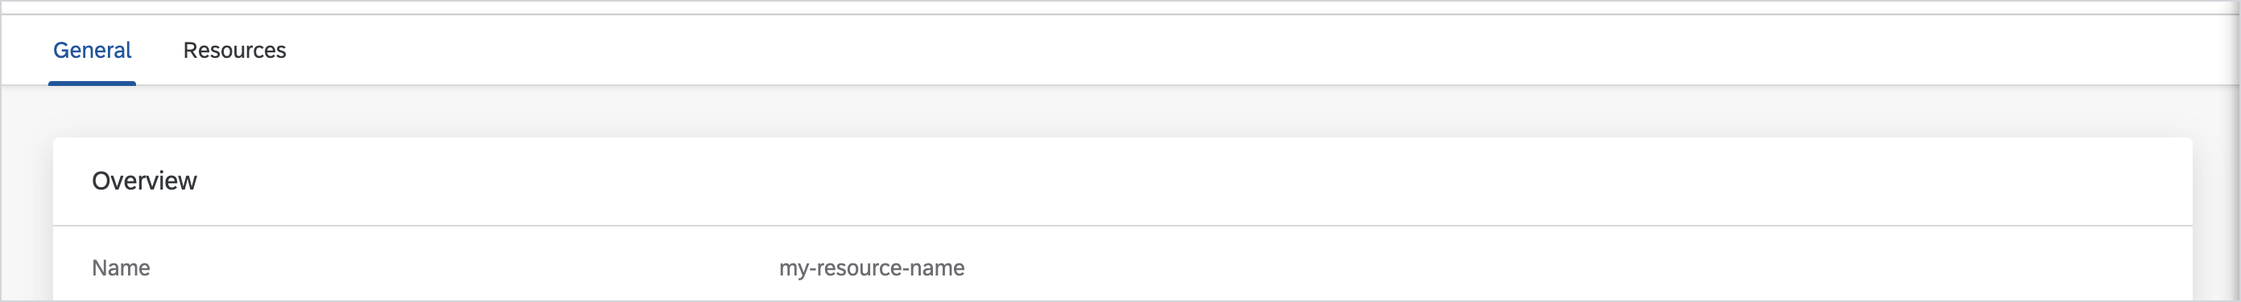
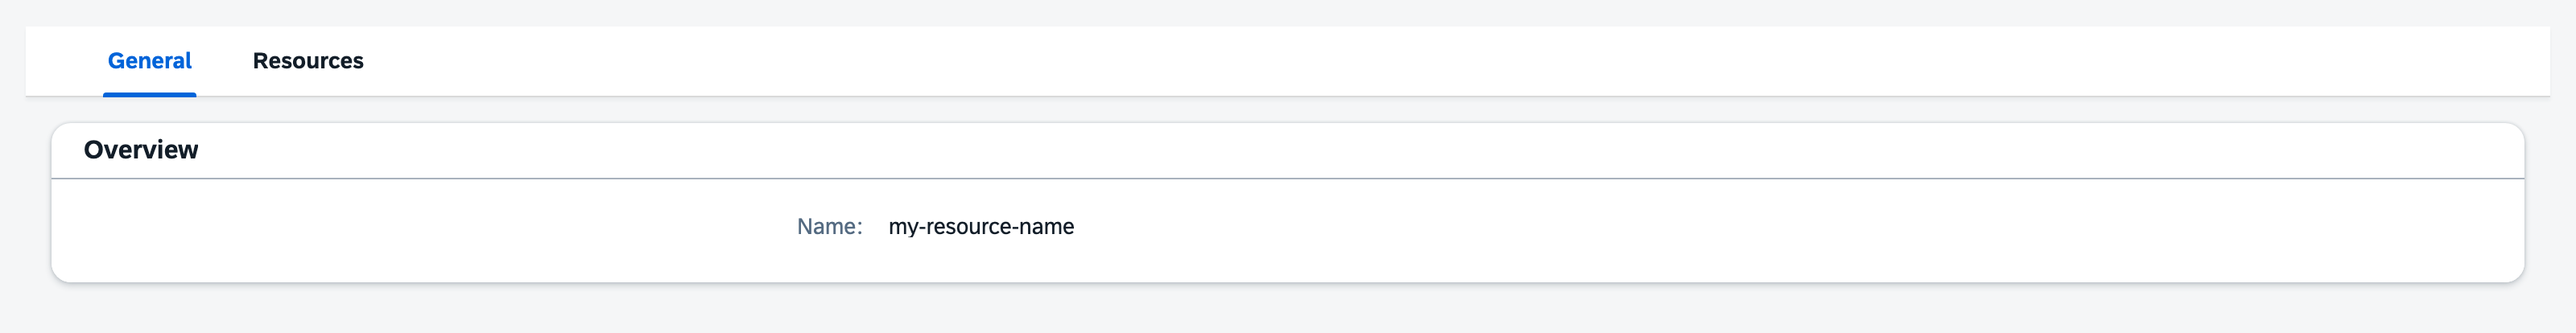
refactor: Show the remaining extensibility rows as display forms (#5518)
* refactor: Show the remaining extensibility rows as display forms

* refactor: Apply the display form to the remaining extensibility widgets and remove LayoutPanelRow

* fix: Space the extensibility Tabs content and theme display form text

diff --git a/src/shared/components/PodTemplate/components.tsx b/src/shared/components/PodTemplate/components.tsx
@@ -9,10 +9,9 @@ import {
   TableHeaderCell,
   TableHeaderRow,
   TableRow,
-  Text,
   Title,
 } from '@ui5/webcomponents-react';
-import { PodTemplateRow } from './PodTemplateRow';
+import { ResourceDetailsFormItem } from 'shared/components/ResourceDetails/ResourceDetailsFormItem';
 import { Link } from '../Link/Link';
 
 interface PodTemplateTableProps {
@@ -66,30 +65,22 @@ export function ContainerFields({ container }: ContainerFieldsProps) {
 
   return (
     <>
-      <PodTemplateRow
+      <ResourceDetailsFormItem
         label={t('pods.labels.image')}
-        component={
-          <Text
-            style={{
-              overflow: 'hidden',
-            }}
-          >
-            {container.image}
-          </Text>
-        }
+        value={container.image}
       />
-      <PodTemplateRow
+      <ResourceDetailsFormItem
         label={t('pods.labels.image-pull-policy')}
-        component={<Text>{container.imagePullPolicy || 'Always'}</Text>}
+        value={container.imagePullPolicy || 'Always'}
       />
-      <PodTemplateRow
+      <ResourceDetailsFormItem
         label={t('pods.labels.ports')}
-        component={<Text>{getPorts(container.ports)}</Text>}
+        value={getPorts(container.ports)}
       />
       {container.env && (
-        <PodTemplateRow
+        <ResourceDetailsFormItem
           label={t('pods.labels.env')}
-          component={
+          value={
             <PodTemplateTable
               className="card-shadow"
               items={container.env}
@@ -111,9 +102,9 @@ export function ContainerFields({ container }: ContainerFieldsProps) {
         />
       )}
       {container.volumeMounts && (
-        <PodTemplateRow
+        <ResourceDetailsFormItem
           label={t('pods.labels.volume-mounts')}
-          component={
+          value={
             <PodTemplateTable
               items={container.volumeMounts}
               columns={[t('common.headers.name'), t('pods.labels.mount-path')]}
@@ -132,17 +123,15 @@ export function ContainerFields({ container }: ContainerFieldsProps) {
         />
       )}
       {container.command && (
-        <PodTemplateRow
+        <ResourceDetailsFormItem
           label={t('pods.labels.command')}
-          component={
-            <p className="code-block">{container.command.join(' ')}</p>
-          }
+          value={<p className="code-block">{container.command.join(' ')}</p>}
         />
       )}
       {container.args && (
-        <PodTemplateRow
+        <ResourceDetailsFormItem
           label={t('pods.labels.args')}
-          component={<p className="code-block">{container.args.join(' ')}</p>}
+          value={<p className="code-block">{container.args.join(' ')}</p>}
         />
       )}
     </>
@@ -173,14 +162,14 @@ export function VolumeFields({ volume }: { volume: any }) {
 
   return (
     <>
-      <PodTemplateRow
+      <ResourceDetailsFormItem
         label={t('common.labels.type')}
-        component={<Text>{typeLabel}</Text>}
+        value={typeLabel}
       />
       {k8sResource && (
-        <PodTemplateRow
+        <ResourceDetailsFormItem
           label={t('common.headers.resource')}
-          component={
+          value={
             <Link
               url={namespaceUrl(
                 `${configMap ? 'configmaps' : 'secrets'}/${k8sResourceName}`,
@@ -192,9 +181,9 @@ export function VolumeFields({ volume }: { volume: any }) {
         />
       )}
       {k8sResource?.items && (
-        <PodTemplateRow
+        <ResourceDetailsFormItem
           label={t('common.headers.items')}
-          component={
+          value={
             <PodTemplateTable
               items={k8sResource.items}
               columns={[t('common.headers.key'), t('common.labels.path')]}

diff --git a/src/components/Extensibility/components/Tabs.tsx b/src/components/Extensibility/components/Tabs.tsx
@@ -2,6 +2,7 @@ import { useGetTranslation } from '../helpers';
 
 import { Widget, InlineWidget } from './Widget';
 import { TabContainer, Tab } from '@ui5/webcomponents-react';
+import './Tabs.scss';
 
 interface TabsProps {
   value: any;
@@ -14,24 +15,26 @@ export function Tabs({ value, structure, schema, ...props }: TabsProps) {
   const { widgetT } = useGetTranslation();
 
   return Array.isArray(structure?.children) ? (
-    <div className="sap-margin-top-small sap-margin-x-small">
+    <div className="sap-margin-top-small">
       <TabContainer tabLayout="Inline" contentBackgroundDesign="Transparent">
         {structure.children.map((child: any, idx: number) => (
           <Tab
             key={`tab-wrapper-${child?.path || child?.name || idx}`}
             text={widgetT(child)}
           >
-            {Array.isArray(child?.children) &&
-              child.children.map((def: any, defIdx: number) => (
-                <Widget
-                  key={`widget-${def?.path || def?.name || ''}-${defIdx}`}
-                  value={value}
-                  structure={def}
-                  schema={schema}
-                  inlineRenderer={InlineWidget}
-                  {...props}
-                />
-              ))}
+            <div className="extensibility-tab__content">
+              {Array.isArray(child?.children) &&
+                child.children.map((def: any, defIdx: number) => (
+                  <Widget
+                    key={`widget-${def?.path || def?.name || ''}-${defIdx}`}
+                    value={value}
+                    structure={def}
+                    schema={schema}
+                    inlineRenderer={InlineWidget}
+                    {...props}
+                  />
+                ))}
+            </div>
           </Tab>
         ))}
       </TabContainer>

diff --git a/src/components/Extensibility/components/Widget.tsx b/src/components/Extensibility/components/Widget.tsx
@@ -6,15 +6,15 @@ import {
   useMemo,
   useState,
 } from 'react';
-import { isNil } from 'lodash';
 import { useTranslation } from 'react-i18next';
 
-import { LayoutPanelRow } from 'shared/components/LayoutPanelRow/LayoutPanelRow';
+import { ResourceDetailsForm } from 'shared/components/ResourceDetails/ResourceDetailsForm';
 import { stringifyIfBoolean } from 'shared/utils/helpers';
-import { useGetPlaceholder, useGetTranslation } from '../helpers';
+import { FormItemWidget } from './FormGroup';
 import { useJsonata } from '../hooks/useJsonata';
 import { valuePreprocessors, widgets } from './index';
 import { CopiableText } from 'shared/components/CopiableText/CopiableText';
+import './Widget.scss';
 
 export const SimpleRenderer = ({ children }: { children: ReactNode }) => {
   return children;
@@ -28,26 +28,14 @@ type InlineWidgetProps = {
   [key: string]: any;
 };
 
-export function InlineWidget({
-  children,
-  value,
-  structure,
-  ...props
-}: InlineWidgetProps) {
-  const { widgetT } = useGetTranslation();
-  const { emptyLeafPlaceholder } = useGetPlaceholder(structure);
-
-  let displayValue;
-  if (!isNil(children)) {
-    displayValue = children;
-  } else if (!isNil(value)) {
-    displayValue = value;
-  } else {
-    displayValue = emptyLeafPlaceholder;
-  }
-
+export function InlineWidget(props: InlineWidgetProps) {
   return (
-    <LayoutPanelRow name={widgetT(structure)} value={displayValue} {...props} />
+    <ResourceDetailsForm
+      layout="S1 M1 L1 XL1"
+      className="extensibility-inline-row no-padding"
+    >
+      <FormItemWidget {...props} />
+    </ResourceDetailsForm>
   );
 }
 InlineWidget.copyable = (Renderer: any) => Renderer?.copyable;

diff --git a/src/shared/components/PodTemplate/PodTemplate.tsx b/src/shared/components/PodTemplate/PodTemplate.tsx
@@ -2,8 +2,8 @@ import { useTranslation } from 'react-i18next';
 
 import { Labels } from '../Labels/Labels';
 import { ContainerFields, VolumeFields } from './components';
-import { Card, CardHeader, FormGroup, Text } from '@ui5/webcomponents-react';
-import { PodTemplateRow } from './PodTemplateRow';
+import { Card, CardHeader, FormGroup } from '@ui5/webcomponents-react';
+import { ResourceDetailsFormItem } from 'shared/components/ResourceDetails/ResourceDetailsFormItem';
 import { ResourceDetailsForm } from '../ResourceDetails/ResourceDetailsForm';
 
 import './PodTemplate.scss';
@@ -20,13 +20,13 @@ export function PodTemplate({ template }: { template: any }) {
     >
       <ResourceDetailsForm>
         <FormGroup>
-          <PodTemplateRow
+          <ResourceDetailsFormItem
             label={t('pods.labels.restart-policy')}
-            component={<Text>{template.spec.restartPolicy}</Text>}
+            value={template.spec.restartPolicy}
           />
-          <PodTemplateRow
+          <ResourceDetailsFormItem
             label={t('common.headers.labels')}
-            component={<Labels labels={template.metadata.labels} />}
+            value={<Labels labels={template.metadata.labels} />}
           />
         </FormGroup>
         {template.spec.containers?.map((container: Record<string, any>) => (

diff --git a/src/components/Extensibility/components/FormGroup.tsx b/src/components/Extensibility/components/FormGroup.tsx
@@ -13,6 +13,7 @@ import {
   useGetTranslation,
 } from '../helpers';
 import { Widget } from './Widget';
+import 'shared/components/ResourceDetails/ResourceDetailsCard.scss';
 import './FormGroup.scss';
 import { HintButton } from 'shared/components/HintButton/HintButton';
 
@@ -102,7 +103,6 @@ function Group({
             structure={def}
             schema={schema}
             inlineRenderer={FormItemWidget}
-            inlineContext={true}
             singleRootResource={singleRootResource}
             embedResource={embedResource}
             {...props}
@@ -122,7 +122,7 @@ export function FormGroup({
 
   return (
     <Form
-      className="extensibility-read-form-group"
+      className="resource-card-layout extensibility-read-form-group"
       layout="S1 M1 L1 XL1"
       labelSpan="S12 M4 L4 XL4"
       itemSpacing="Large"

diff --git a/src/shared/components/ResourceDetails/ResourceDetailsCard.scss b/src/shared/components/ResourceDetails/ResourceDetailsCard.scss
@@ -22,6 +22,12 @@
   }
 }
 
+// Outside a card, values would inherit the page's larger font size and text color
+.resource-card-layout {
+  font-size: var(--sapFontSize);
+  color: var(--sapTextColor);
+}
+
 // Spec: 1rem from header to first row; UI5 adds 1.5rem.
 .resource-card-layout::part(column) {
   padding-top: 0;
@@ -53,6 +59,11 @@
   // The value cell adds 0.25rem; the label supplies the rest of the 1rem gap.
   .resource-card-layout ui5-form-item::part(label) {
     padding-inline-end: 0.75rem;
+  }
+
+  // UI5 pads only the label cell's top, which would push the label below the value.
+  .resource-card-layout ui5-form-item::part(content) {
+    padding-top: 0.125rem;
   }
 }
 

diff --git a/src/components/Extensibility/components/Columns.tsx b/src/components/Extensibility/components/Columns.tsx
@@ -1,5 +1,6 @@
 import { Form } from '@ui5/webcomponents-react';
 import { Widget } from './Widget';
+import 'shared/components/ResourceDetails/ResourceDetailsCard.scss';
 import './Columns.scss';
 
 interface ColumnsProps {
@@ -16,9 +17,10 @@ export function Columns({ structure, ...props }: ColumnsProps) {
   if (allFormGroups) {
     return (
       <Form
-        className="extensibility-columns"
+        className="resource-card-layout extensibility-columns"
         layout="S1 M2 L2 XL2"
         labelSpan="S12 M4 L4 XL4"
+        itemSpacing="Large"
         data-testid="extensibility-columns"
       >
         {children.map((child: any) => (

diff --git a/src/components/Extensibility/components/Table.scss b/src/components/Extensibility/components/Table.scss
@@ -10,15 +10,18 @@
   ui5-table-row {
     min-height: fit-content;
     height: auto;
+
     * {
       min-height: fit-content;
       height: auto;
     }
+
     ui5-icon {
       display: flex;
       align-items: center;
     }
   }
+
   ui5-table-cell {
     div {
       min-height: fit-content;
@@ -36,6 +39,7 @@ ui5-table-row.collapse-content {
 
   .extensibility-table {
     margin: 0;
+
     ui5-table {
       min-width: auto;
 
@@ -54,7 +58,7 @@ ui5-table-row.collapse-content {
   > :first-child {
     overflow: auto;
 
-    &:not(ui5-panel) {
+    &:not(ui5-panel, ui5-form) {
       display: flex;
     }
 

diff --git a/src/components/Extensibility/components/Tabs.scss b/src/components/Extensibility/components/Tabs.scss
@@ -1,0 +1,9 @@
+.extensibility-tab__content {
+  display: flex;
+  flex-direction: column;
+  gap: 1rem;
+  width: 100%;
+  box-sizing: border-box;
+  // UI5 scrolls the tab content, which would clip the bottom border.
+  padding: 1rem;
+}

diff --git a/src/components/Extensibility/components/Widget.scss b/src/components/Extensibility/components/Widget.scss
@@ -1,0 +1,4 @@
+// Outside a Card or Panel, the row sits on the page background.
+.extensibility-inline-row {
+  --sapGroup_ContentBackground: transparent;
+}

diff --git a/docs/contributor/extensibility/50-list-and-details-widgets.md b/docs/contributor/extensibility/50-list-and-details-widgets.md
@@ -468,12 +468,14 @@ See the following example:
     - name: columns.left
       widget: Panel
       children:
-        - source: spec.value
+        - name: Value
+          source: spec.value
           placeholder: '-'
     - name: columns.right
       widget: Panel
       children:
-        - source: spec.other-value
+        - name: Other value
+          source: spec.other-value
 ```
 
 <img src="./assets/display-widgets/Columns.png" alt="Example of a columns widget">
